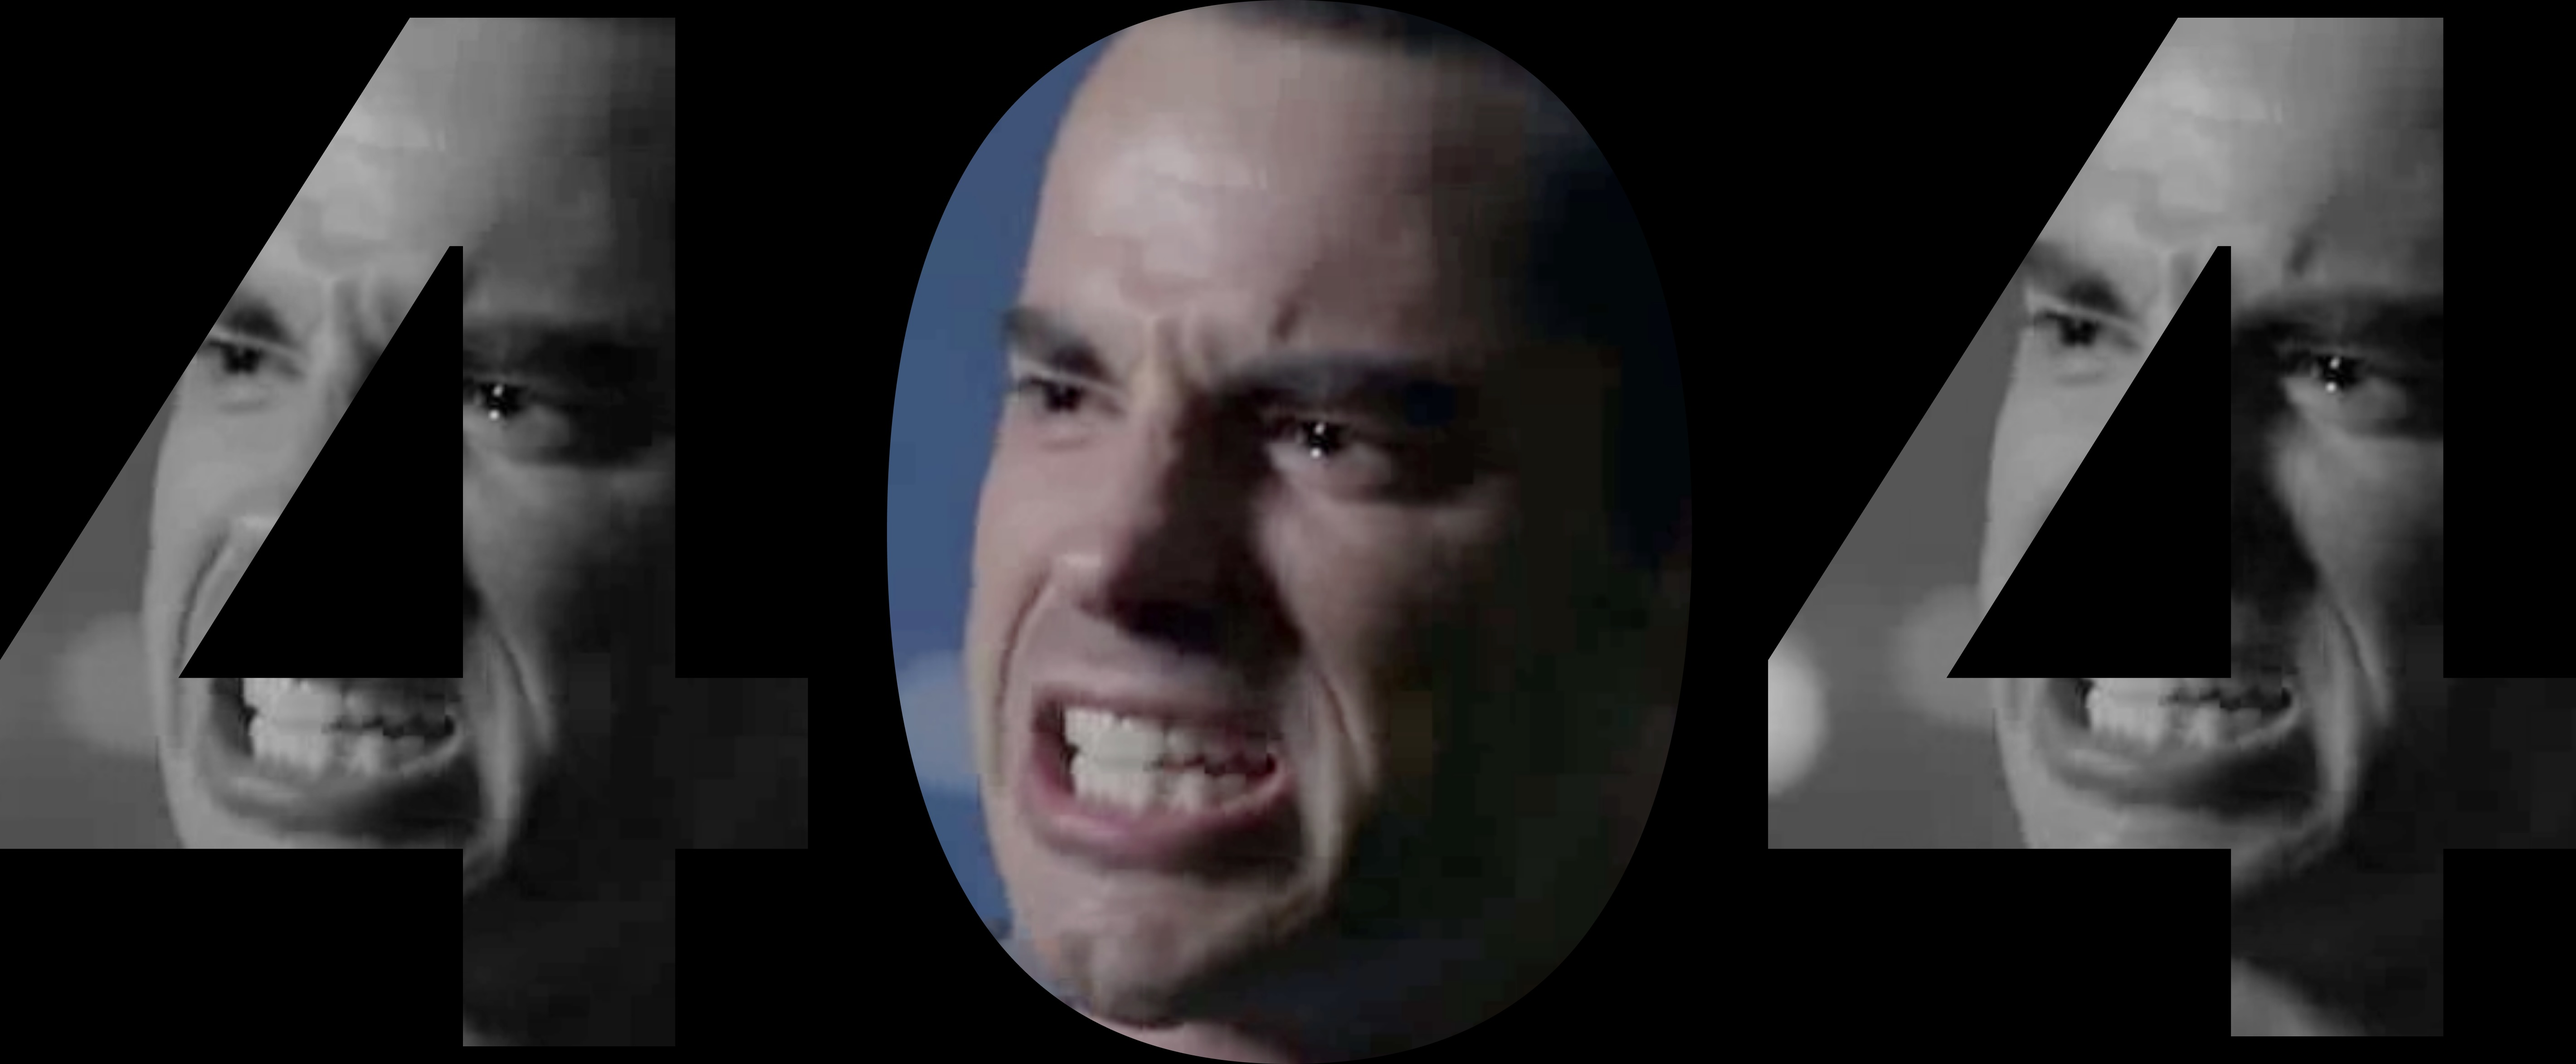
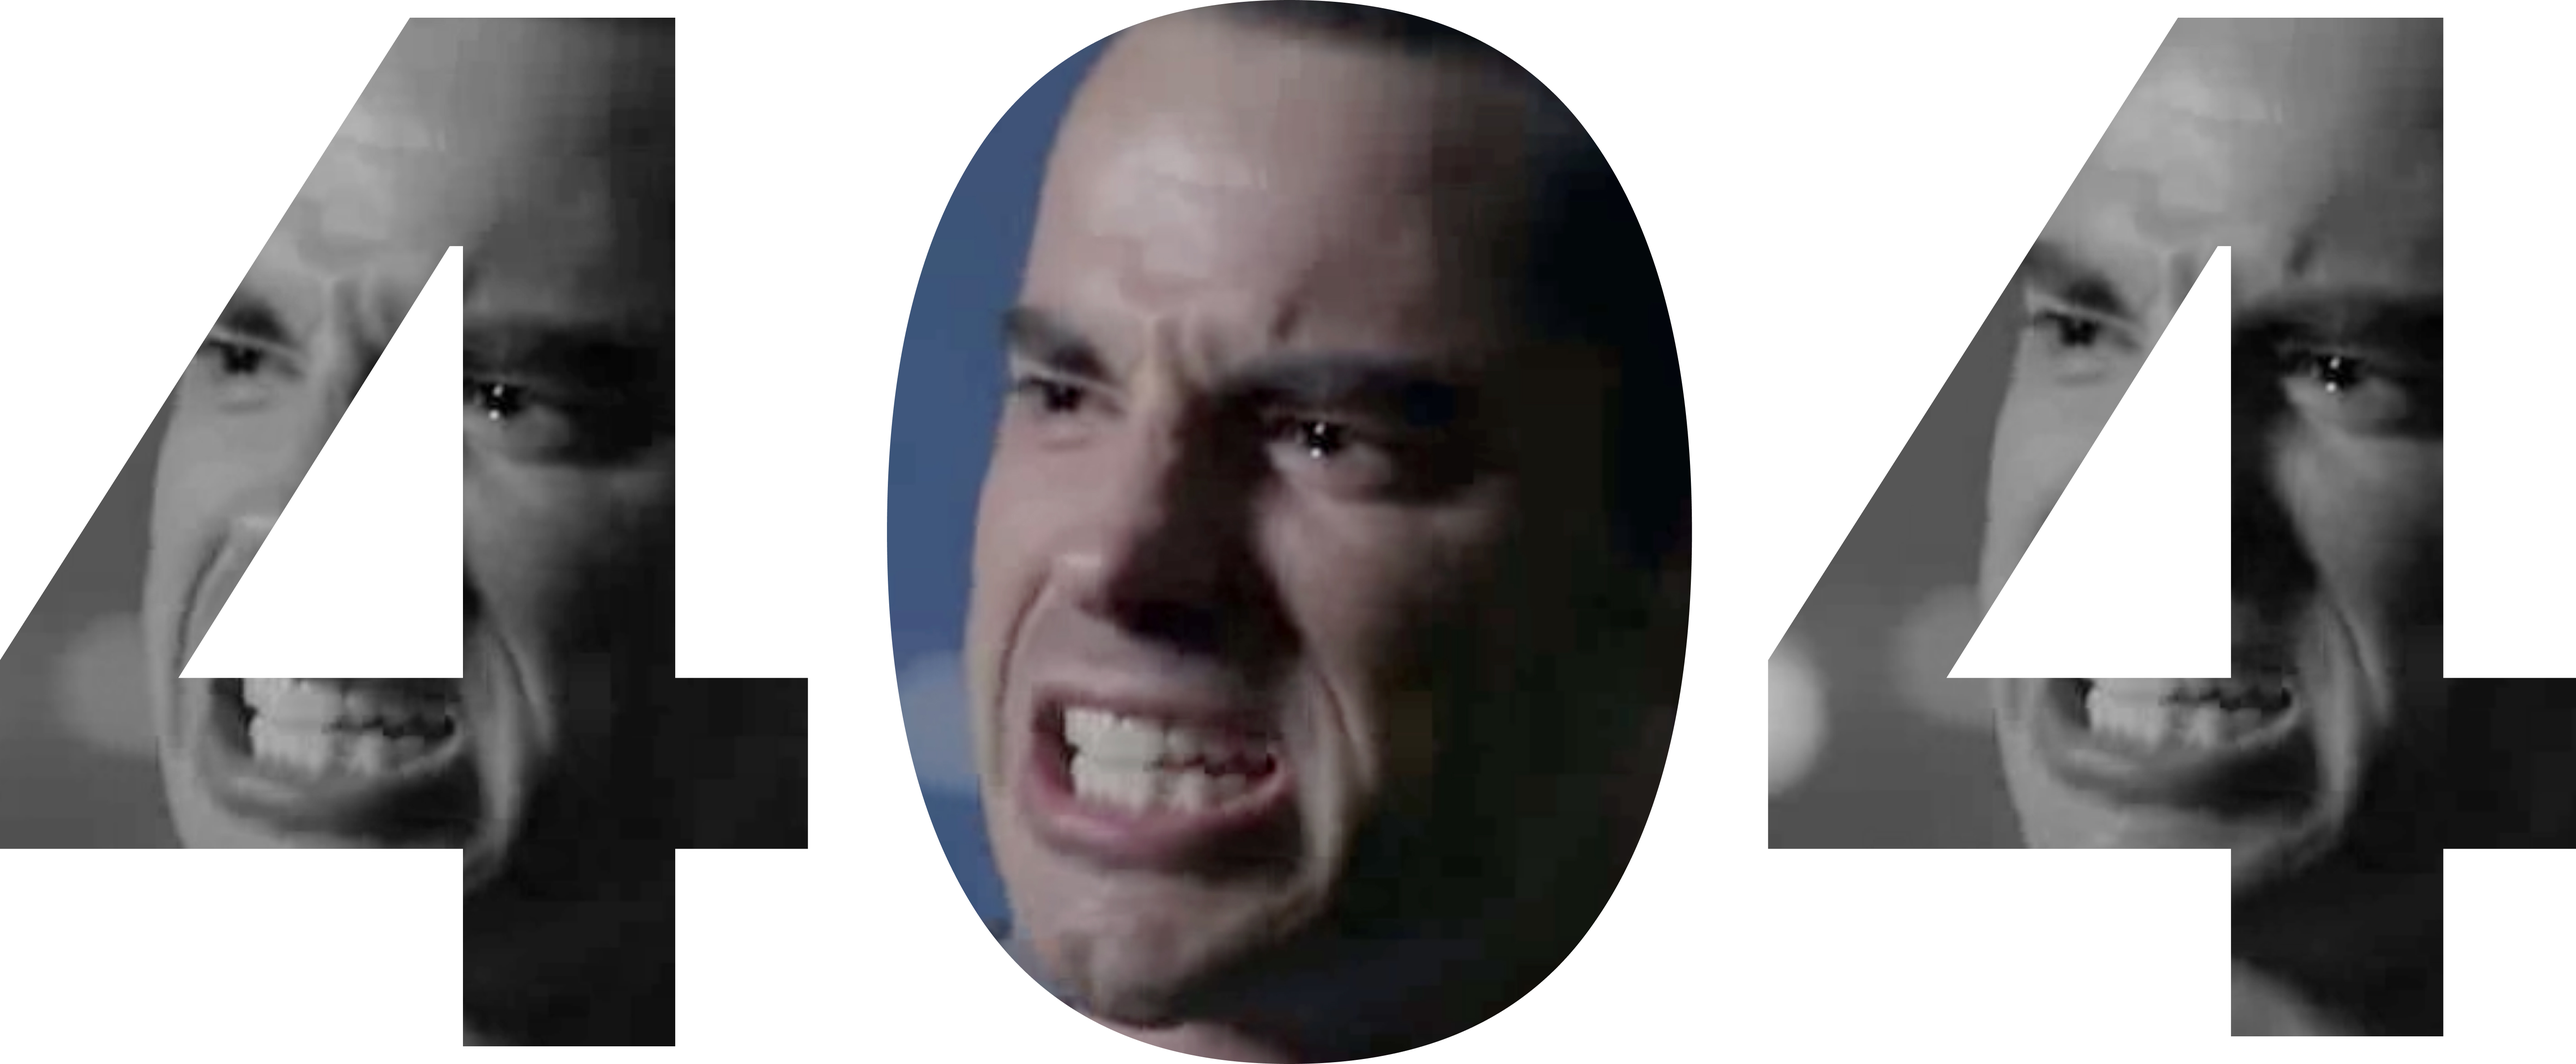
fix: update 404 image styling in App component for improved visual consistency

diff --git a/src/App.tsx b/src/App.tsx
@@ -940,7 +940,7 @@ function App() {
         <div className="fixed inset-0 bg-white z-[100]">
           <div className="flex items-center justify-center h-full">
             <div className="text-center">
-              <div className="relative inline-block">
+              <div className="relative inline-block bg-white rounded-lg p-4">
                 <img 
                   src="/404.jpg"
                   alt="404"
